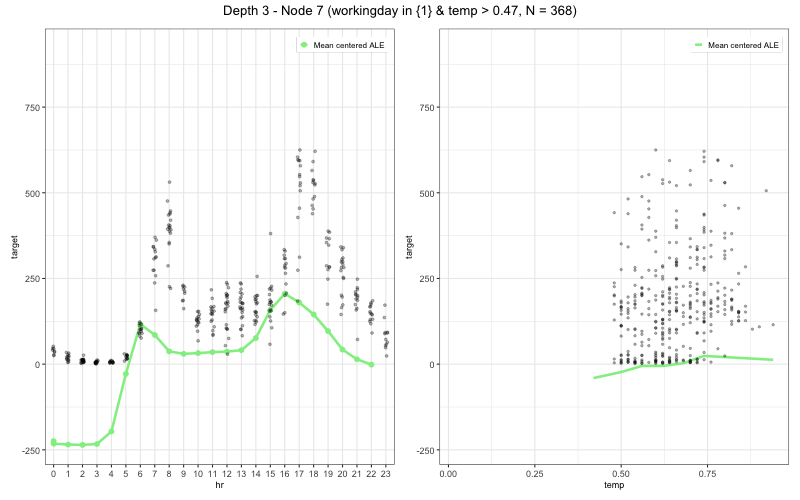
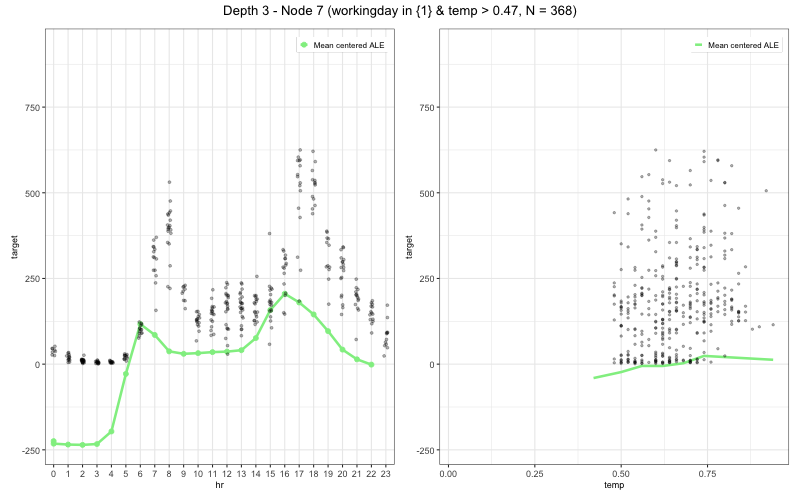
Update README bike example outputs

diff --git a/README.md b/README.md
@@ -132,9 +132,9 @@ tree$plot(
 
 | id | depth | n_obs | node_type | split_feature | split_value | node_objective | int_imp | int_imp_parent | split_feature_parent | split_value_parent | objective_value_parent | is_final | time |
 |---|---|---|---|---|---|---|---|---|---|---|---|---|---|
-| 1 | 1 | 1000 | root | workingday | 1 | 18716935 | 0.37 | NA | NA | NA | NA | FALSE | 0.01 |
-| 2 | 2 | 684 | left | temp | 0.51 | 7283101 | 0.32 | 0.37 | workingday | 1 | 18716935 | FALSE | 0.006 |
-| 3 | 2 | 316 | right | temp | 0.45 | 4558235 | 0.21 | 0.37 | workingday | 1 | 18716935 | FALSE | 0.004 |
+| 1 | 1 | 1000 | root | workingday | 1 | 18716935 | 0.37 | NA | NA | NA | NA | FALSE | 0.002 |
+| 2 | 2 | 684 | left | temp | 0.51 | 7283101 | 0.32 | 0.37 | workingday | 1 | 18716935 | FALSE | 0.002 |
+| 3 | 2 | 316 | right | temp | 0.45 | 4558235 | 0.21 | 0.37 | workingday | 1 | 18716935 | FALSE | 0.002 |
 | 4 | 3 | 345 | left | NA | NA | 508581 | NA | 0.32 | temp | 0.51 | 7283101 | TRUE | NA |
 | 5 | 3 | 339 | right | NA | NA | 694544 | NA | 0.32 | temp | 0.51 | 7283101 | TRUE | NA |
 | 6 | 3 | 148 | left | NA | NA | 271085 | NA | 0.21 | temp | 0.45 | 4558235 | TRUE | NA |
@@ -198,13 +198,11 @@ tree$plot(
 
 | id | depth | n_obs | node_type | split_feature | split_value | node_objective | int_imp | int_imp_parent | int_imp_hr | int_imp_temp | int_imp_workingday | split_feature_parent | split_value_parent | objective_value_parent | is_final | time |
 |---|---|---|---|---|---|---|---|---|---|---|---|---|---|---|---|---|
-| 1 | 1 | 1000 | root | workingday | 0 | 2220499 | 0.9 | NA | 0.68 | 0.17 | 1 | NA | NA | NA | FALSE | 0.061 |
-| 2 | 2 | 316 | left | temp | 0.47 | 49880 | 0.02 | 0.9 | 0.04 | 0.27 | 0 | workingday | 0 | 2220499 | FALSE | 0.051 |
-| 3 | 2 | 684 | right | temp | 0.47 | 167776 | 0.07 | 0.9 | 0.21 | 0.55 | 0 | workingday | 0 | 2220499 | FALSE | 0.007 |
-| 4 | 3 | 160 | left | NA | NA | 2979 | NA | 0.02 | NA | NA | NA | temp | 0.47 | 49880 | TRUE | NA |
-| 5 | 3 | 156 | right | NA | NA | 2944 | NA | 0.02 | NA | NA | NA | temp | 0.47 | 49880 | TRUE | NA |
-| 6 | 3 | 316 | left | NA | NA | 6559 | NA | 0.07 | NA | NA | NA | temp | 0.47 | 167776 | TRUE | NA |
-| 7 | 3 | 368 | right | NA | NA | 16683 | NA | 0.07 | NA | NA | NA | temp | 0.47 | 167776 | TRUE | NA |
+| 1 | 1 | 1000 | root | workingday | 0 | 2220499 | 0.9 | NA | 0.68 | 0.17 | 1 | NA | NA | NA | FALSE | 0.055 |
+| 2 | 2 | 316 | left | NA | NA | 49880 | NA | 0.9 | NA | NA | NA | workingday | 0 | 2220499 | TRUE | NA |
+| 3 | 2 | 684 | right | temp | 0.47 | 167776 | 0.04 | 0.9 | 0.21 | 0 | 0 | workingday | 0 | 2220499 | FALSE | 0.009 |
+| 6 | 3 | 316 | left | NA | NA | 25506 | NA | 0.04 | NA | NA | NA | temp | 0.47 | 167776 | TRUE | NA |
+| 7 | 3 | 368 | right | NA | NA | 50858 | NA | 0.04 | NA | NA | NA | temp | 0.47 | 167776 | TRUE | NA |
 
 **Tree structure and regional ALE plots (root and first split):**
 

diff --git a/figures/split_info_ale_bike.md b/figures/split_info_ale_bike.md
@@ -1,9 +1,7 @@
 | id | depth | n_obs | node_type | split_feature | split_value | node_objective | int_imp | int_imp_parent | int_imp_hr | int_imp_temp | int_imp_workingday | split_feature_parent | split_value_parent | objective_value_parent | is_final | time |
 |---|---|---|---|---|---|---|---|---|---|---|---|---|---|---|---|---|
-| 1 | 1 | 1000 | root | workingday | 0 | 2220499 | 0.9 | NA | 0.68 | 0.17 | 1 | NA | NA | NA | FALSE | 0.061 |
-| 2 | 2 | 316 | left | temp | 0.47 | 49880 | 0.02 | 0.9 | 0.04 | 0.27 | 0 | workingday | 0 | 2220499 | FALSE | 0.051 |
-| 3 | 2 | 684 | right | temp | 0.47 | 167776 | 0.07 | 0.9 | 0.21 | 0.55 | 0 | workingday | 0 | 2220499 | FALSE | 0.007 |
-| 4 | 3 | 160 | left | NA | NA | 2979 | NA | 0.02 | NA | NA | NA | temp | 0.47 | 49880 | TRUE | NA |
-| 5 | 3 | 156 | right | NA | NA | 2944 | NA | 0.02 | NA | NA | NA | temp | 0.47 | 49880 | TRUE | NA |
-| 6 | 3 | 316 | left | NA | NA | 6559 | NA | 0.07 | NA | NA | NA | temp | 0.47 | 167776 | TRUE | NA |
-| 7 | 3 | 368 | right | NA | NA | 16683 | NA | 0.07 | NA | NA | NA | temp | 0.47 | 167776 | TRUE | NA |
+| 1 | 1 | 1000 | root | workingday | 0 | 2220499 | 0.9 | NA | 0.68 | 0.17 | 1 | NA | NA | NA | FALSE | 0.055 |
+| 2 | 2 | 316 | left | NA | NA | 49880 | NA | 0.9 | NA | NA | NA | workingday | 0 | 2220499 | TRUE | NA |
+| 3 | 2 | 684 | right | temp | 0.47 | 167776 | 0.04 | 0.9 | 0.21 | 0 | 0 | workingday | 0 | 2220499 | FALSE | 0.009 |
+| 6 | 3 | 316 | left | NA | NA | 25506 | NA | 0.04 | NA | NA | NA | temp | 0.47 | 167776 | TRUE | NA |
+| 7 | 3 | 368 | right | NA | NA | 50858 | NA | 0.04 | NA | NA | NA | temp | 0.47 | 167776 | TRUE | NA |

diff --git a/figures/split_info_pd_bike.md b/figures/split_info_pd_bike.md
@@ -1,8 +1,8 @@
 | id | depth | n_obs | node_type | split_feature | split_value | node_objective | int_imp | int_imp_parent | split_feature_parent | split_value_parent | objective_value_parent | is_final | time |
 |---|---|---|---|---|---|---|---|---|---|---|---|---|---|
-| 1 | 1 | 1000 | root | workingday | 1 | 18716935 | 0.37 | NA | NA | NA | NA | FALSE | 0.01 |
-| 2 | 2 | 684 | left | temp | 0.51 | 7283101 | 0.32 | 0.37 | workingday | 1 | 18716935 | FALSE | 0.006 |
-| 3 | 2 | 316 | right | temp | 0.45 | 4558235 | 0.21 | 0.37 | workingday | 1 | 18716935 | FALSE | 0.004 |
+| 1 | 1 | 1000 | root | workingday | 1 | 18716935 | 0.37 | NA | NA | NA | NA | FALSE | 0.002 |
+| 2 | 2 | 684 | left | temp | 0.51 | 7283101 | 0.32 | 0.37 | workingday | 1 | 18716935 | FALSE | 0.002 |
+| 3 | 2 | 316 | right | temp | 0.45 | 4558235 | 0.21 | 0.37 | workingday | 1 | 18716935 | FALSE | 0.002 |
 | 4 | 3 | 345 | left | NA | NA | 508581 | NA | 0.32 | temp | 0.51 | 7283101 | TRUE | NA |
 | 5 | 3 | 339 | right | NA | NA | 694544 | NA | 0.32 | temp | 0.51 | 7283101 | TRUE | NA |
 | 6 | 3 | 148 | left | NA | NA | 271085 | NA | 0.21 | temp | 0.45 | 4558235 | TRUE | NA |